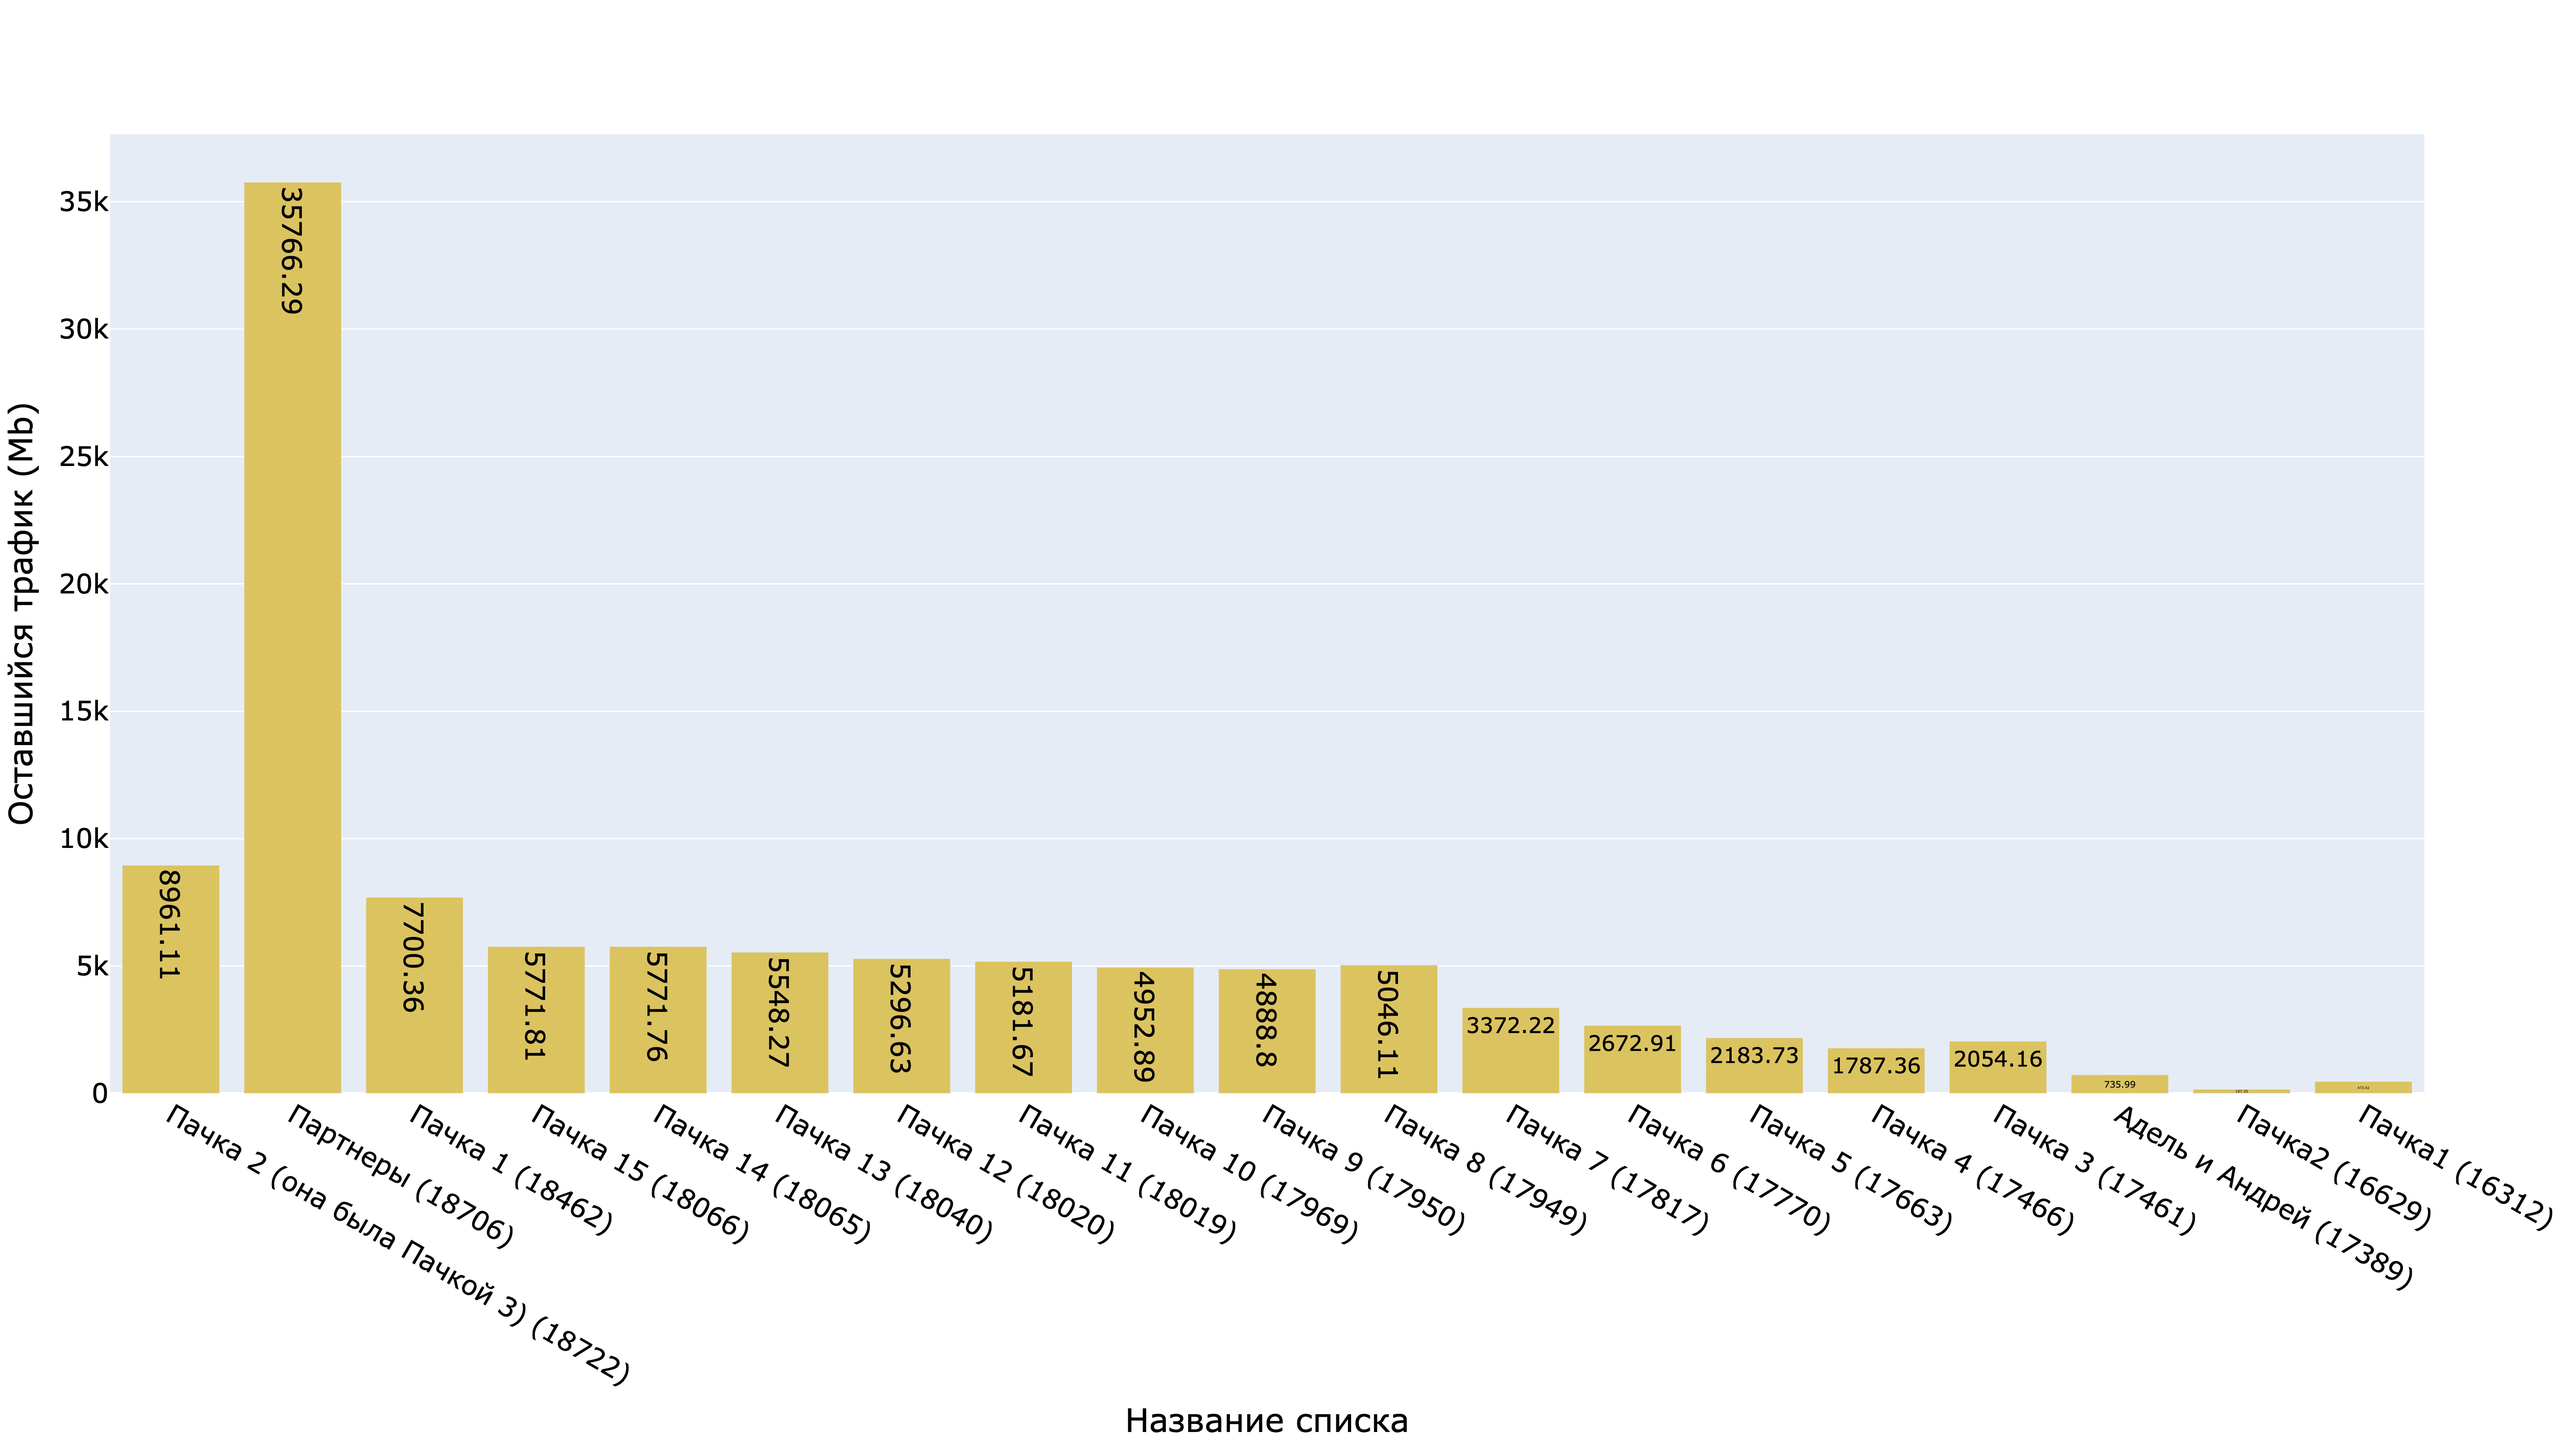
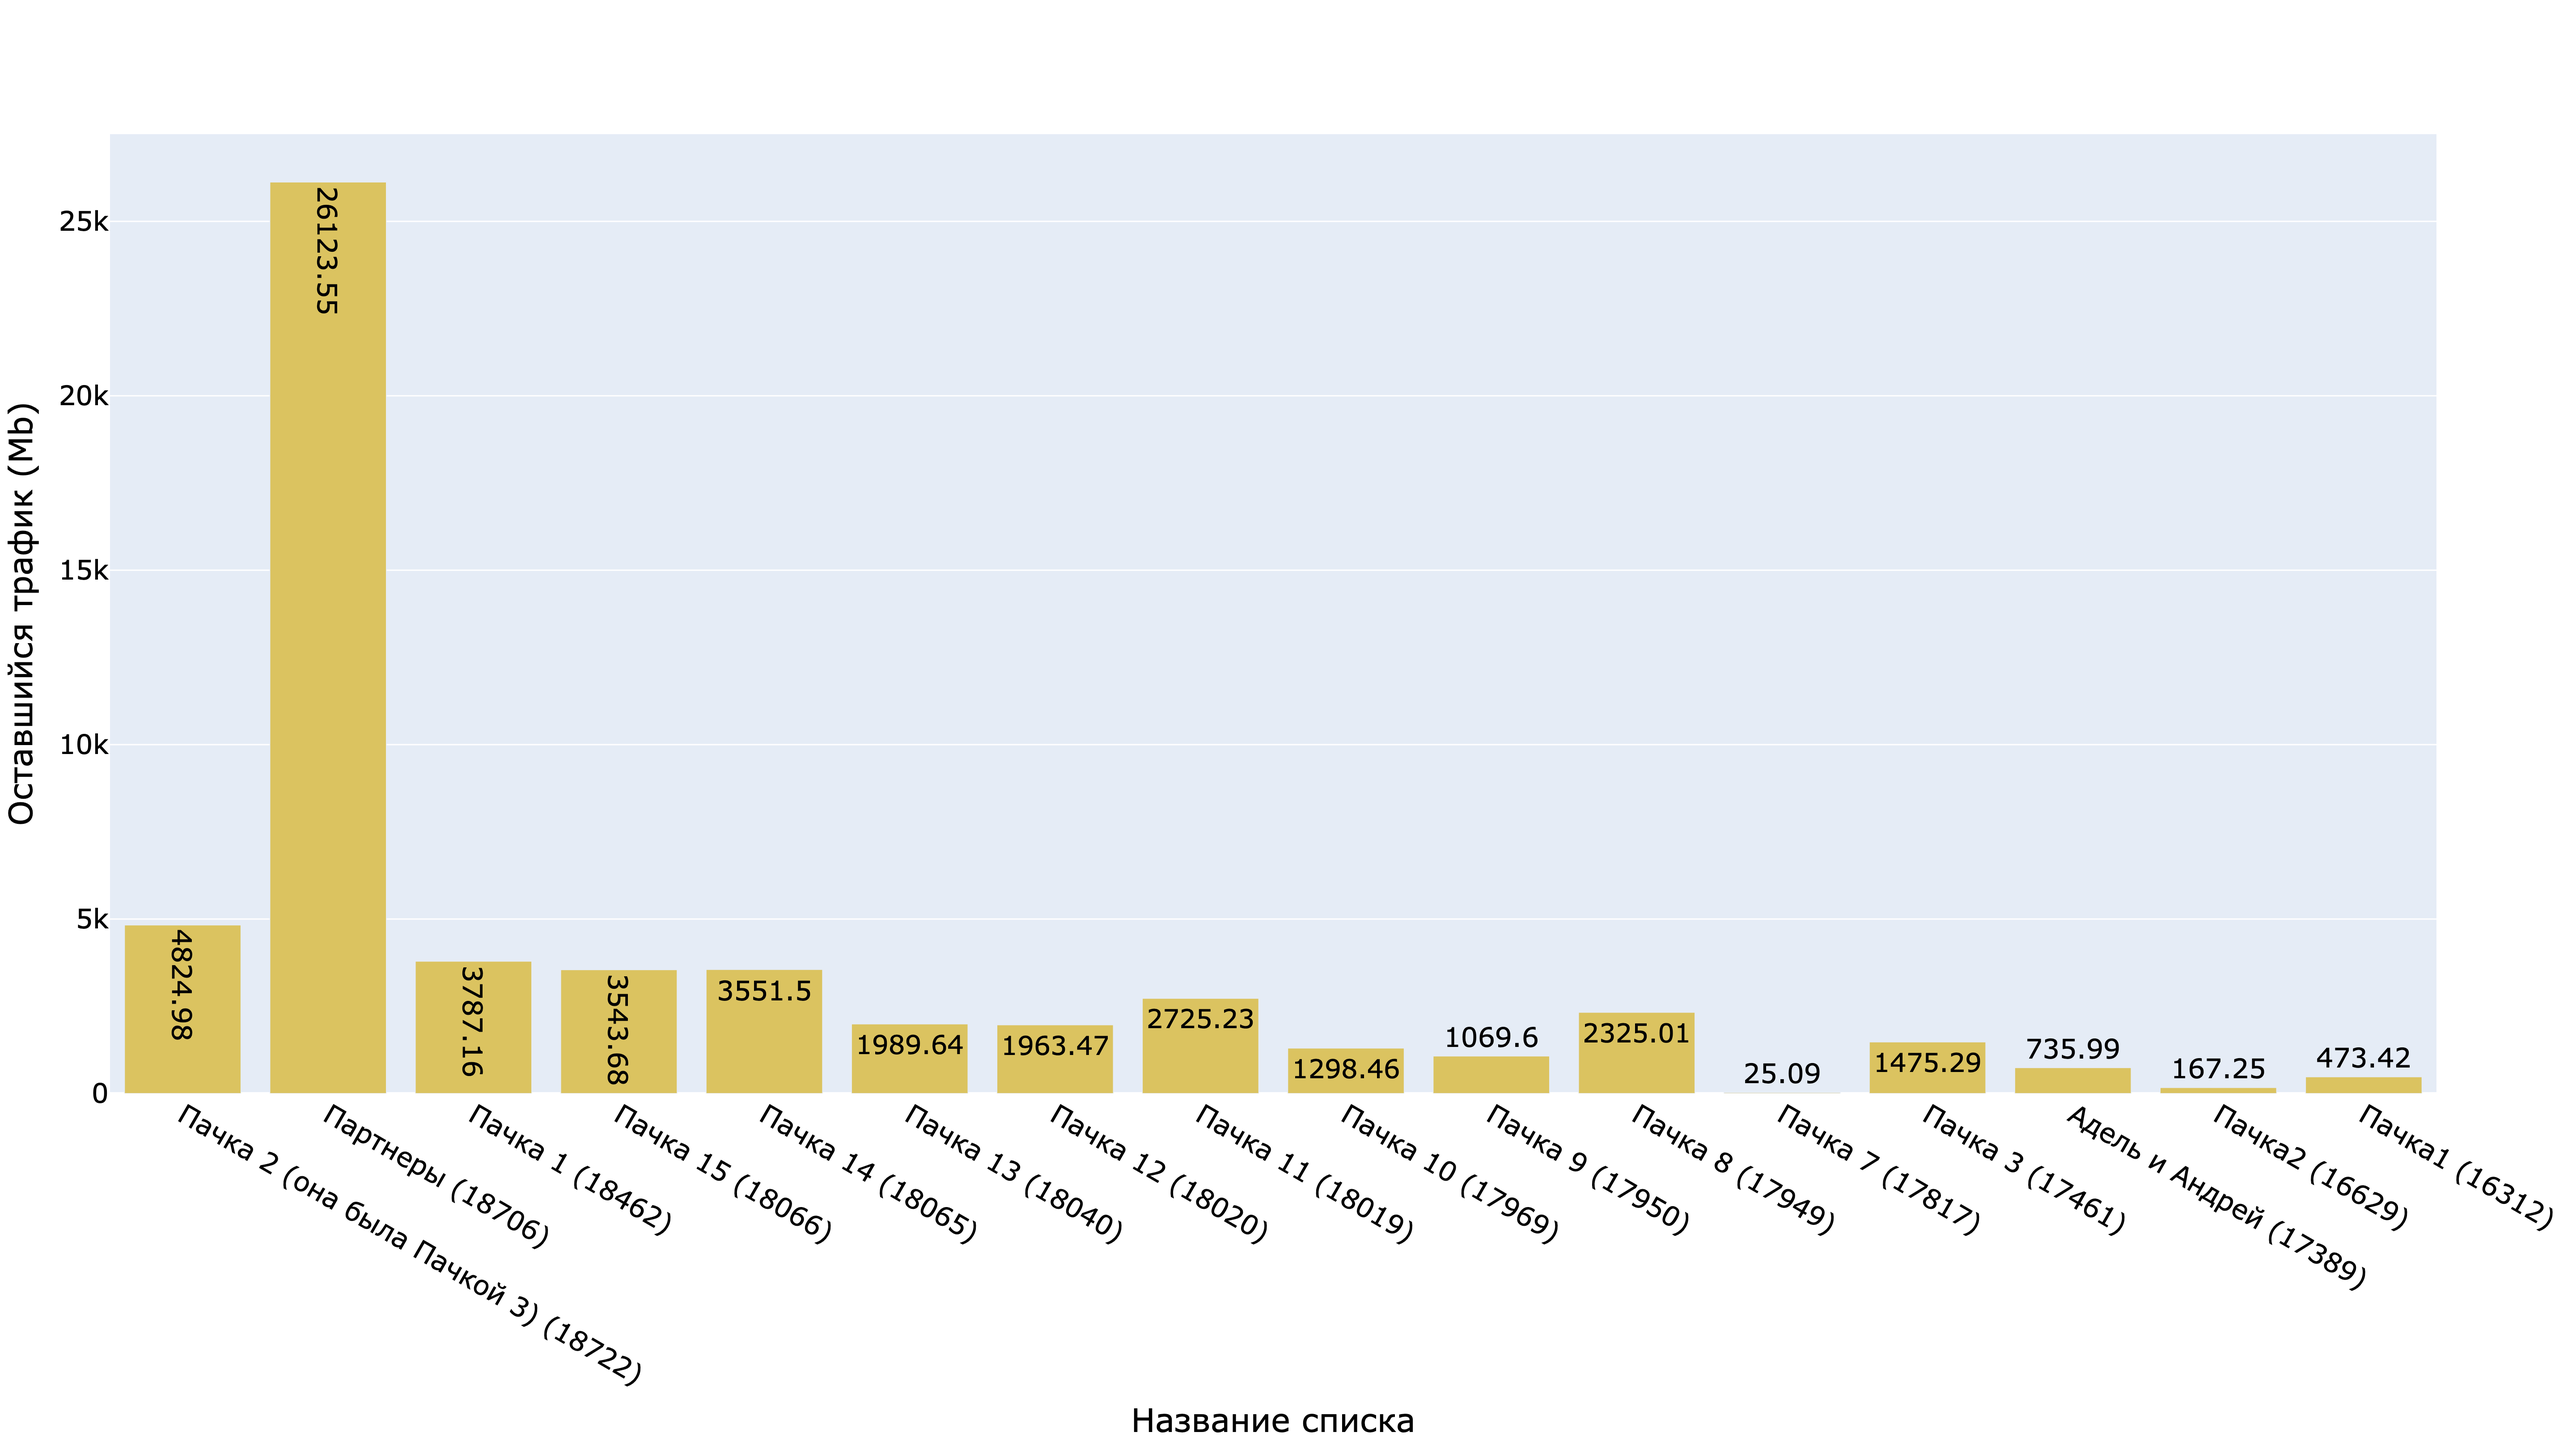
Alpha 0.4

diff --git a/api_hand.py b/api_hand.py
@@ -3,6 +3,7 @@ import plotly.graph_objects as go
 import requests
 import config
 from datetime import datetime
+import time
 
 API_KEY = f'{config.proxy_API_KEY}'
 
@@ -38,6 +39,7 @@ def formating_proxy_lists(id):
     output = ""
     for item in data:
         output+= f'{item["login"]}:{item["password"]}@{item["ip"]}:10000' + ','
+    output = output[:-1]
     return output
 
 def get_image():
@@ -58,7 +60,7 @@ def get_image():
         orientation='v',
         marker=dict(color='#dbc360'),
         text=remaining,  # Добавление текста на столбцы
-        textposition='inside',  # Позиция текста внутри столбцов
+        textposition='auto',  # Позиция текста внутри столбцов
         textfont=dict(color='black', size=20)  # Настройка шрифта
     ))
 
@@ -83,6 +85,50 @@ def get_list():
             output += "Lasts: _" + str(lasts) + "Mb_" + '\n'
             output += "Used: _" + str(used) + "Mb_" + " from _" + str(total) + "Mb_ \n"
             output += "Expires at: " + convert_timestamp_to_date(int(item["expires_at"])) + '\n\n-----\n\n'
+    return output
+
+def get_speed(wait_time):
+    # Fetch initial data
+    initial_data = get_data()
+    initial_remaining = {}
+
+    for item in initial_data["data"]:
+        used = round(((int(item["used"])) / (1024 * 1024)), 2)
+        total = round((int(item["total"])) / (1024 * 1024), 2)
+        lasts = round(total - used, 2)
+        if lasts > 0:
+            initial_remaining[item["id"]] = lasts
+
+    # Wait for the specified amount of time
+    time.sleep(wait_time)
+
+    # Fetch data again after waiting
+    final_data = get_data()
+    final_remaining = {}
+
+    for item in final_data["data"]:
+        used = round(((int(item["used"])) / (1024 * 1024)), 2)
+        total = round((int(item["total"])) / (1024 * 1024), 2)
+        lasts = round(total - used, 2)
+        if lasts > 0:
+            final_remaining[item["id"]] = lasts
+
+    # Calculate the traffic usage rate per second
+    output = "Traffic usage rate per second: \n\n-----\n\n"
+
+    sum_speed = 0
+    for item in initial_data["data"]:
+        id = item["id"]
+        name = item["name"]
+        initial = initial_remaining.get(id, 0)
+        final = final_remaining.get(id, 0)
+        if final > 0:
+            speed = round((initial - final) / wait_time, 3)
+            sum_speed+=speed
+            output += f"List: *{name}*\n\n"
+            output += f"Traffic usage rate: _{speed} Mb/s_" + "\n\n-----\n\n"
+    output+= f"Summary: _{sum_speed} Mb/s_"
+
     return output
 
 

diff --git a/main.py b/main.py
@@ -2,9 +2,9 @@ import telebot
 import api_hand
 import config
 
-
 API_TOKEN = f'{config.bot_TOKEN}'
 bot = telebot.TeleBot(API_TOKEN)
+
 
 @bot.message_handler(commands=['start'])
 def start_answer(message):
@@ -30,6 +30,13 @@ def handle_command(message):
     parts = text.split(' ', 1)
     command, params = parts
     bot.send_message(message.chat.id, api_hand.formating_proxy_lists(params))
+
+@bot.message_handler(commands=['getspeed'])
+def handle_command(message):
+    text = message.text
+    parts = text.split(' ', 1)
+    command, params = parts
+    bot.send_message(message.chat.id, api_hand.get_speed(int(params)), parse_mode='Markdown')
 
 
 bot.infinity_polling()
